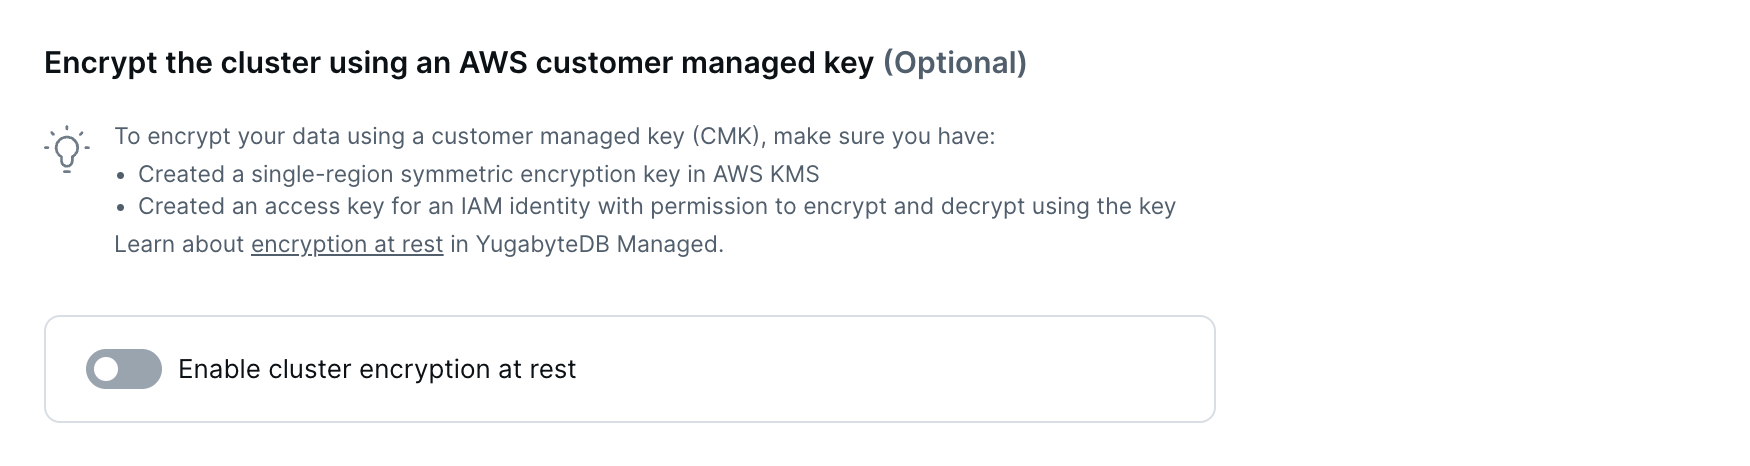
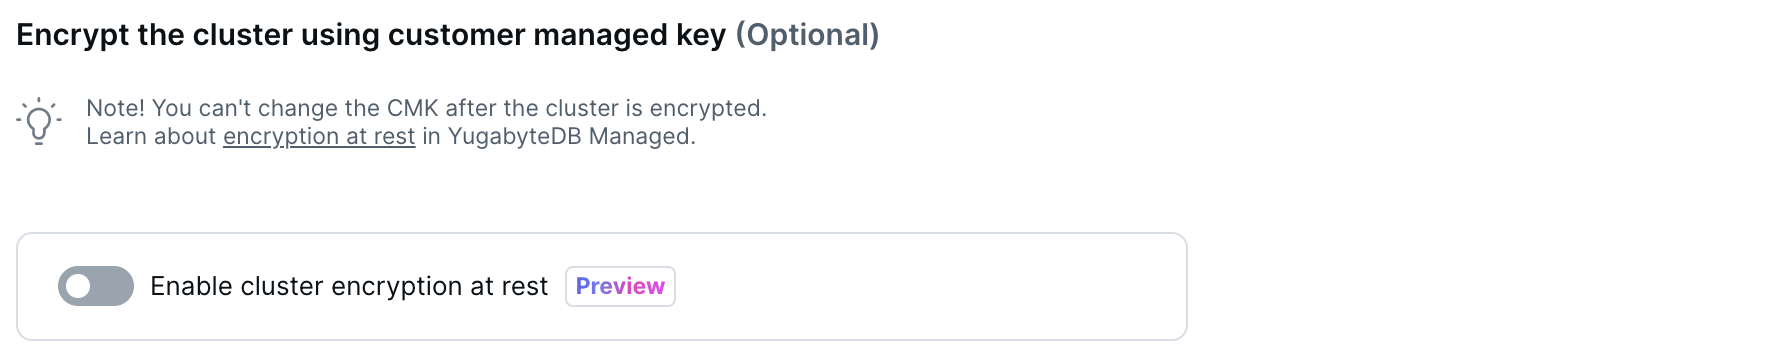
Add GCP CMK

diff --git a/docs/content/preview/yugabyte-cloud/cloud-basics/create-clusters/include-security-settings.md b/docs/content/preview/yugabyte-cloud/cloud-basics/create-clusters/include-security-settings.md
@@ -6,15 +6,22 @@ private = true
 
 ### Security
 
-In addition to the volume encryption that YugabyteDB Managed uses to encrypt your data, you can enable YugabyteDB [encryption at rest](../../../cloud-secure-clusters/managed-ear/) (EAR) for clusters. When enabled, your YugabyteDB cluster (including backups) is encrypted using a customer managed key (CMK) residing in a cloud provider Key Management Service (KMS). (Currently, only [AWS KMS](https://docs.aws.amazon.com/kms/) is supported.)
+In addition to the volume encryption that YugabyteDB Managed uses to encrypt your data, you can enable YugabyteDB [encryption at rest](../../../cloud-secure-clusters/managed-ear/) (EAR) for clusters. When enabled, your YugabyteDB cluster (including backups) is encrypted using a customer managed key (CMK) residing in a cloud provider Key Management Service (KMS).
 
 You must be signed in as an Admin user to enable EAR. <!--You can also enable EAR for a cluster after the cluster is created.-->
 
-To use a CMK to encrypt your cluster, make sure you have configured the CMK in AWS KMS, and created an [access key](https://docs.aws.amazon.com/IAM/latest/UserGuide/id_credentials_access-keys.html) for an IAM identity that has been granted permission to encrypt and decrypt using the CMK. For more information on AWS KMS, refer to [AWS Key Management Service](https://docs.aws.amazon.com/kms/) in the AWS documentation.
+To use a CMK to encrypt your cluster, make sure you have configured the CMK in AWS KMS or Google Cloud KMS. Refer to [Prerequisites](../../../cloud-secure-clusters/managed-ear/#prerequisites).
 
 ![Add Cluster Wizard - Security Settings](/images/yb-cloud/cloud-addcluster-security.png)
 
-Set the following options:
+To use a CMK, select the **Enable cluster encryption at rest** option and set the following options:
 
-- **Customer managed key (CMK)**: Enter the Amazon Resource Name (ARN) of the CMK to use to encrypt the cluster.
-- **Access key**: Provide an access key of an [IAM identity](https://docs.aws.amazon.com/IAM/latest/UserGuide/id.html) with permissions for the CMK. An access key consists of an access key ID and the secret access key.
+- **KMS provider**: AWS or GCP.
+- For AWS:
+
+  - **Customer managed key (CMK)**: Enter the Amazon Resource Name (ARN) of the CMK to use to encrypt the cluster.
+  - **Access key**: Provide an access key of an [IAM identity](https://docs.aws.amazon.com/IAM/latest/UserGuide/id.html) with permissions for the CMK. An access key consists of an access key ID and the secret access key.
+
+- For GCP:
+  - **Resource ID**: Enter the resource ID of the key ring where the CMK is stored.
+  - **Service Account Credentials**: Click **Add Key** to select the credentials JSON file you downloaded when creating credentials for the service account that has permissions to encrypt and decrypt using the CMK.

diff --git a/docs/content/preview/yugabyte-cloud/cloud-secure-clusters/managed-ear.md b/docs/content/preview/yugabyte-cloud/cloud-secure-clusters/managed-ear.md
@@ -27,7 +27,6 @@ Note that, regardless of whether you enable YugabyteDB EAR for a cluster, Yugaby
 
 ## Limitations
 
-- Currently, only CMKs in [AWS KMS](https://docs.aws.amazon.com/kms/) are supported.
 - Currently, you cannot enable cluster EAR for existing clusters.
 - You cannot remove encryption from clusters that have EAR enabled.
 - After EAR is enabled for a cluster, you cannot change keys.
@@ -36,7 +35,9 @@ Enabling EAR can impact cluster performance. You should monitor your workload af
 
 ## Prerequisites
 
-### AWS
+{{< tabpane text=true >}}
+
+  {{% tab header="AWS" lang="aws" %}}
 
 - Single-region [symmetric encryption key](https://docs.aws.amazon.com/kms/latest/developerguide/concepts.html#symmetric-cmks) created in AWS KMS. The key resource should have the following permissions:
   - kms:Encrypt
@@ -48,6 +49,19 @@ Enabling EAR can impact cluster performance. You should monitor your workload af
 - An access key for an [IAM identity](https://docs.aws.amazon.com/IAM/latest/UserGuide/id.html) with permission to encrypt and decrypt using the CMK. An access key consists of an access key ID and the secret access key. For more information, refer to [Managing access keys for IAM users](https://docs.aws.amazon.com/IAM/latest/UserGuide/id_credentials_access-keys.html) in the AWS documentation.
 
 For more information on AWS KMS, refer to [AWS Key Management Service](https://docs.aws.amazon.com/kms/) in the AWS documentation.
+
+  {{% /tab %}}
+
+  {{% tab header="GCP" lang="gcp" %}}
+
+- Cloud KMS resource ID. For more information, refer to [Getting a Cloud KMS resource ID](https://cloud.google.com/kms/docs/getting-resource-ids) in the GCP documentation.
+- Service account credentials. This is the key file (JSON) that you downloaded when creating credentials for the service account. For more information, refer to [Create access credentials](https://developers.google.com/workspace/guides/create-credentials#create_credentials_for_a_service_account) in the GCP documentation.
+
+For more information on GCP KMS, refer to [Cloud Key Management Service overview](https://cloud.google.com/kms/docs/key-management-service/) in the GCP documentation.
+
+  {{% /tab %}}
+
+{{< /tabpane >}}
 
 <!--## Encrypt a cluster
 
